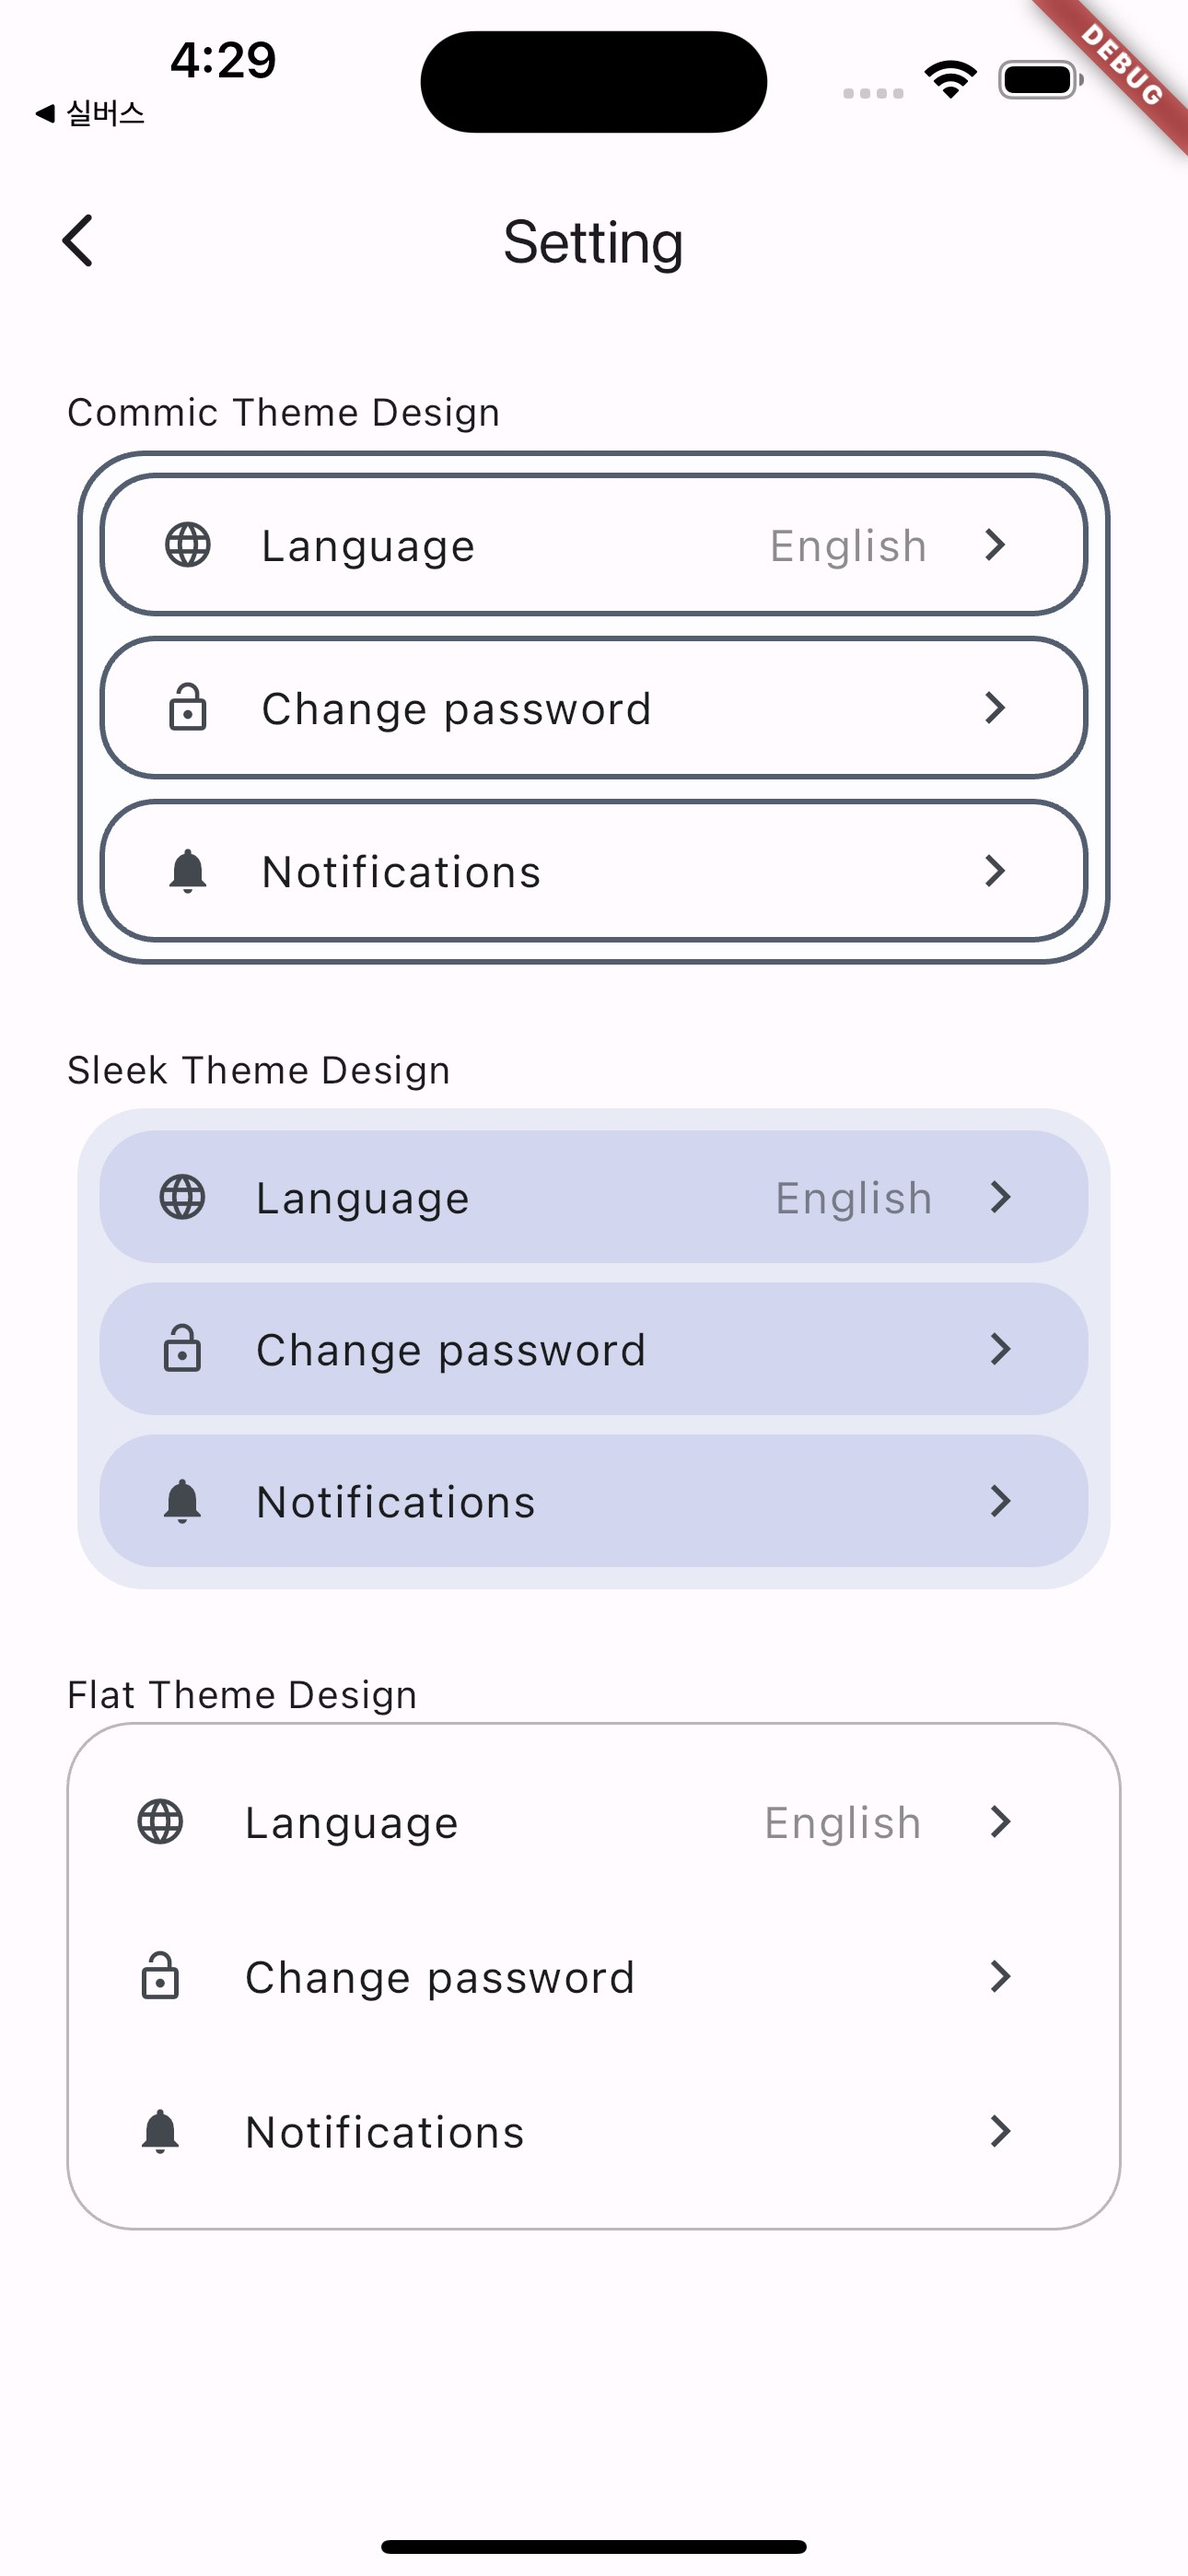
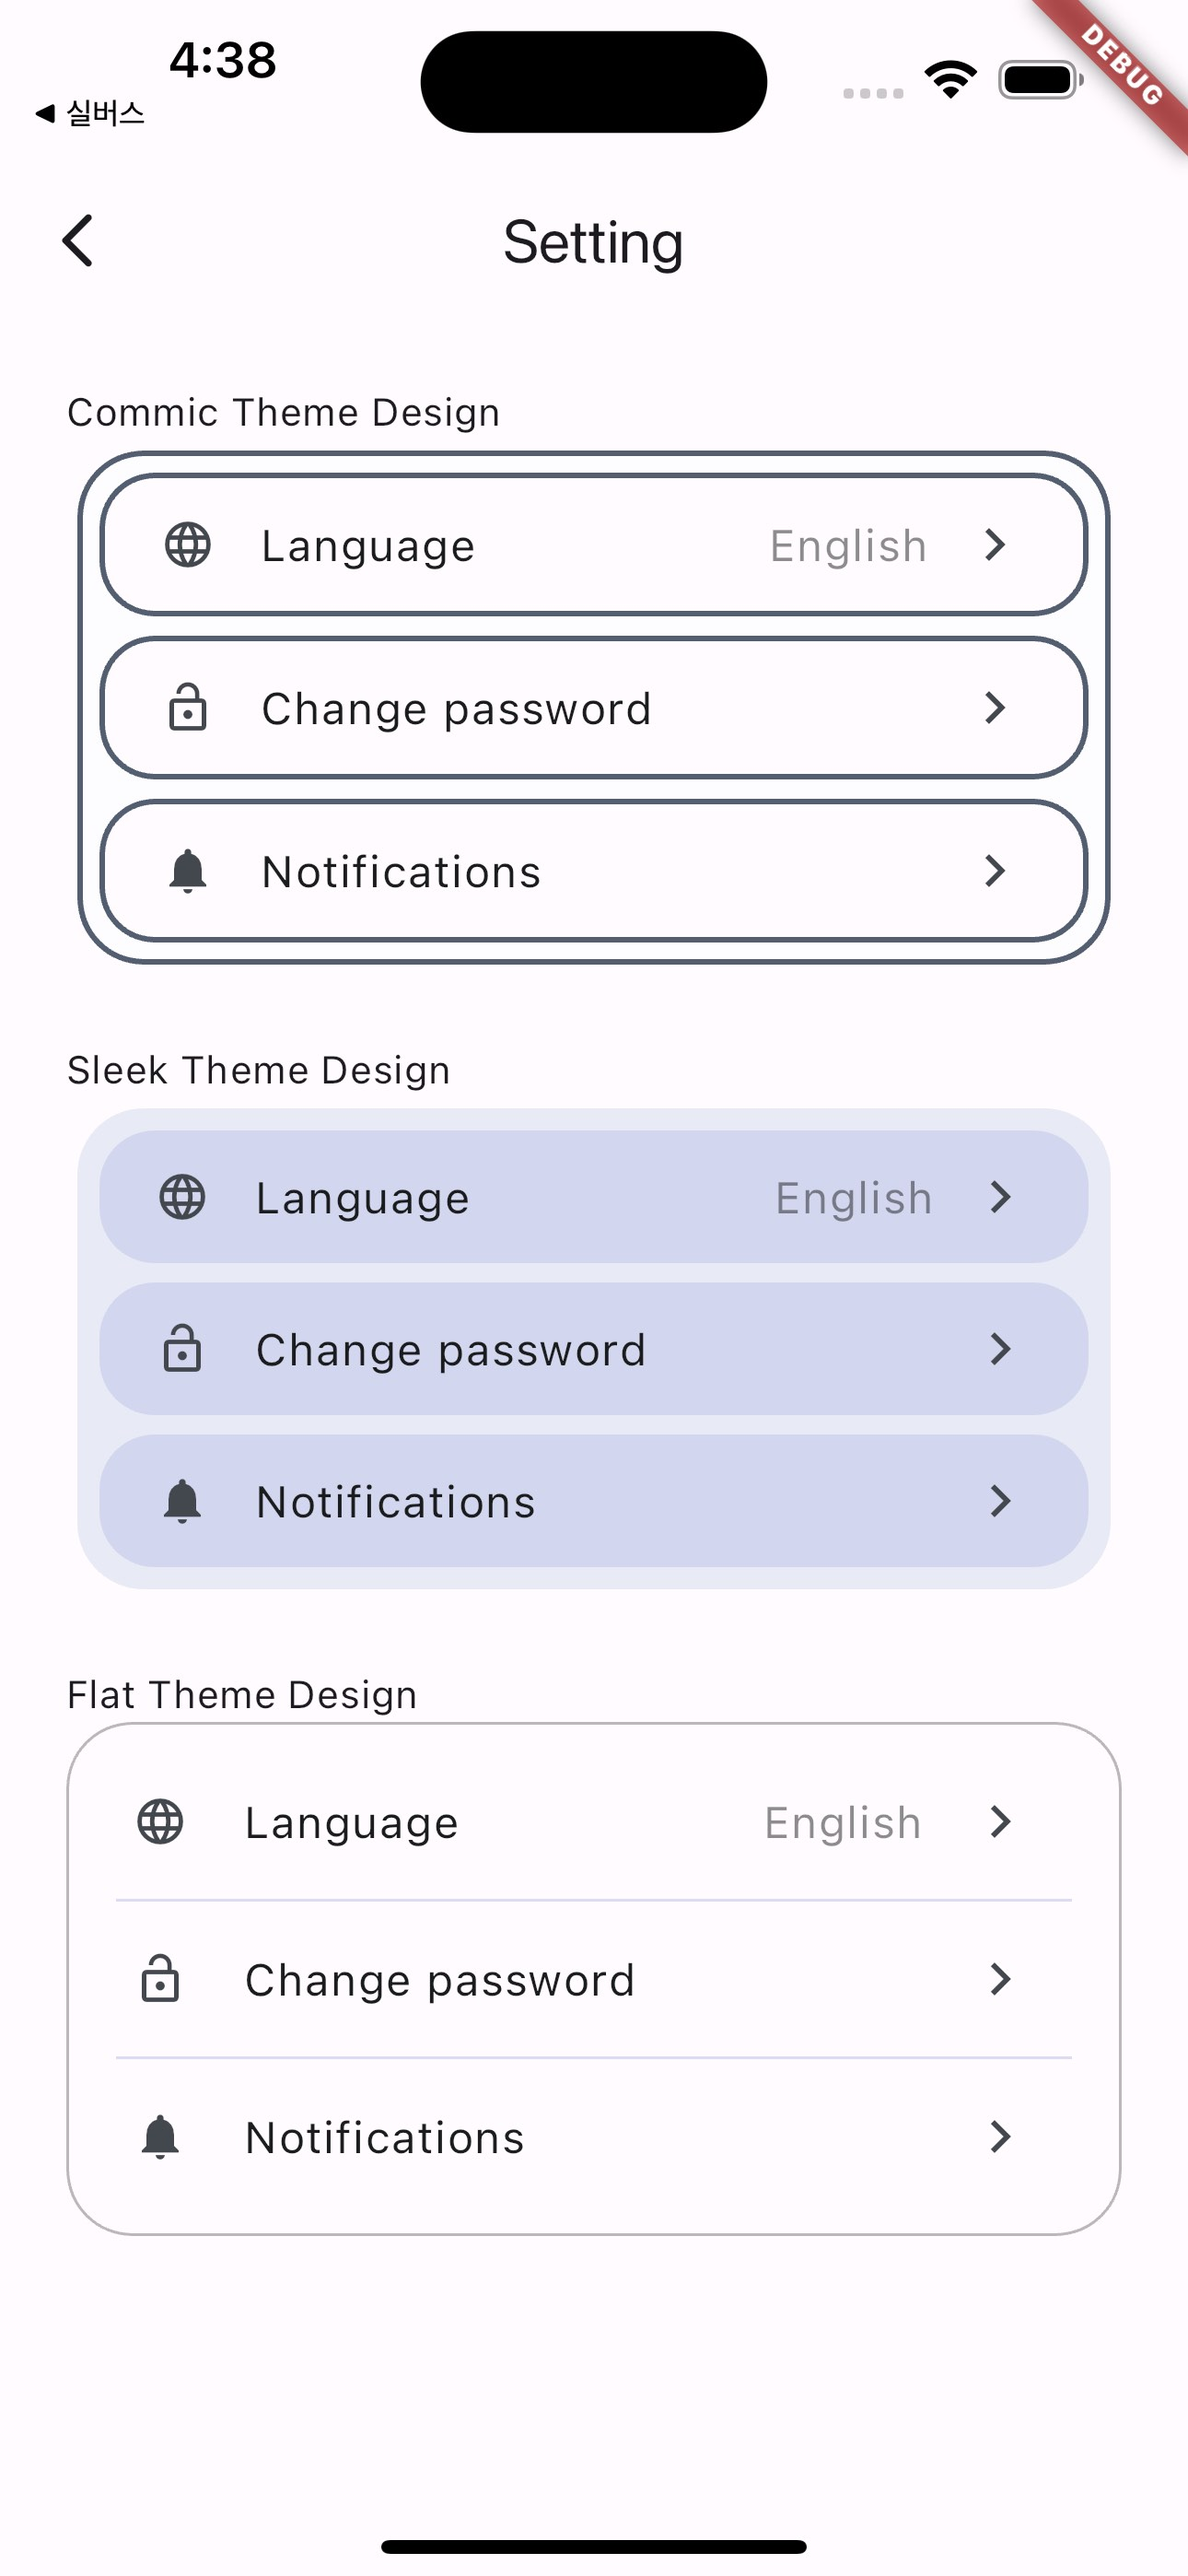
update

diff --git a/example/lib/screens/setting/setting.screen.dart b/example/lib/screens/setting/setting.screen.dart
@@ -49,7 +49,10 @@ class _SettingScreenState extends State<SettingScreen> {
                     ),
               ),
               child: const SettingItems(
-                divider: null,
+                divider: Divider(
+                  height: 1,
+                  thickness: 1,
+                ),
               ),
             ),
           ],
